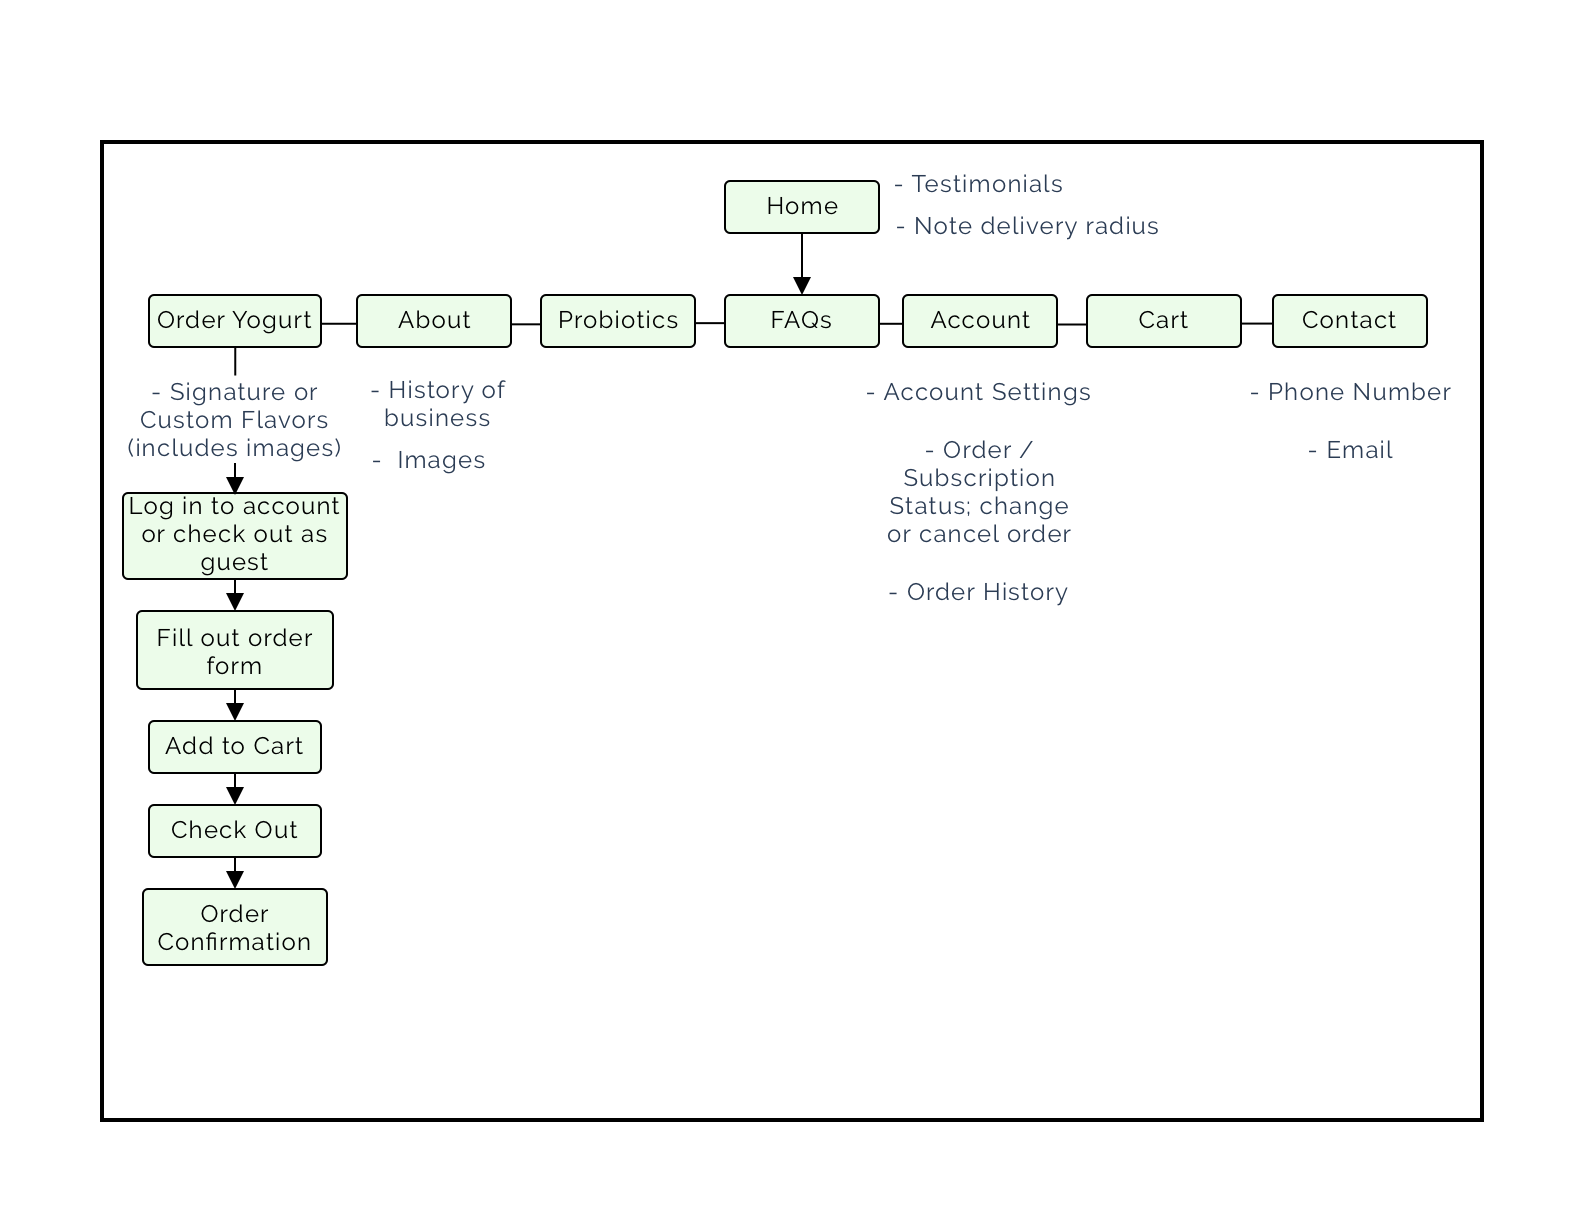
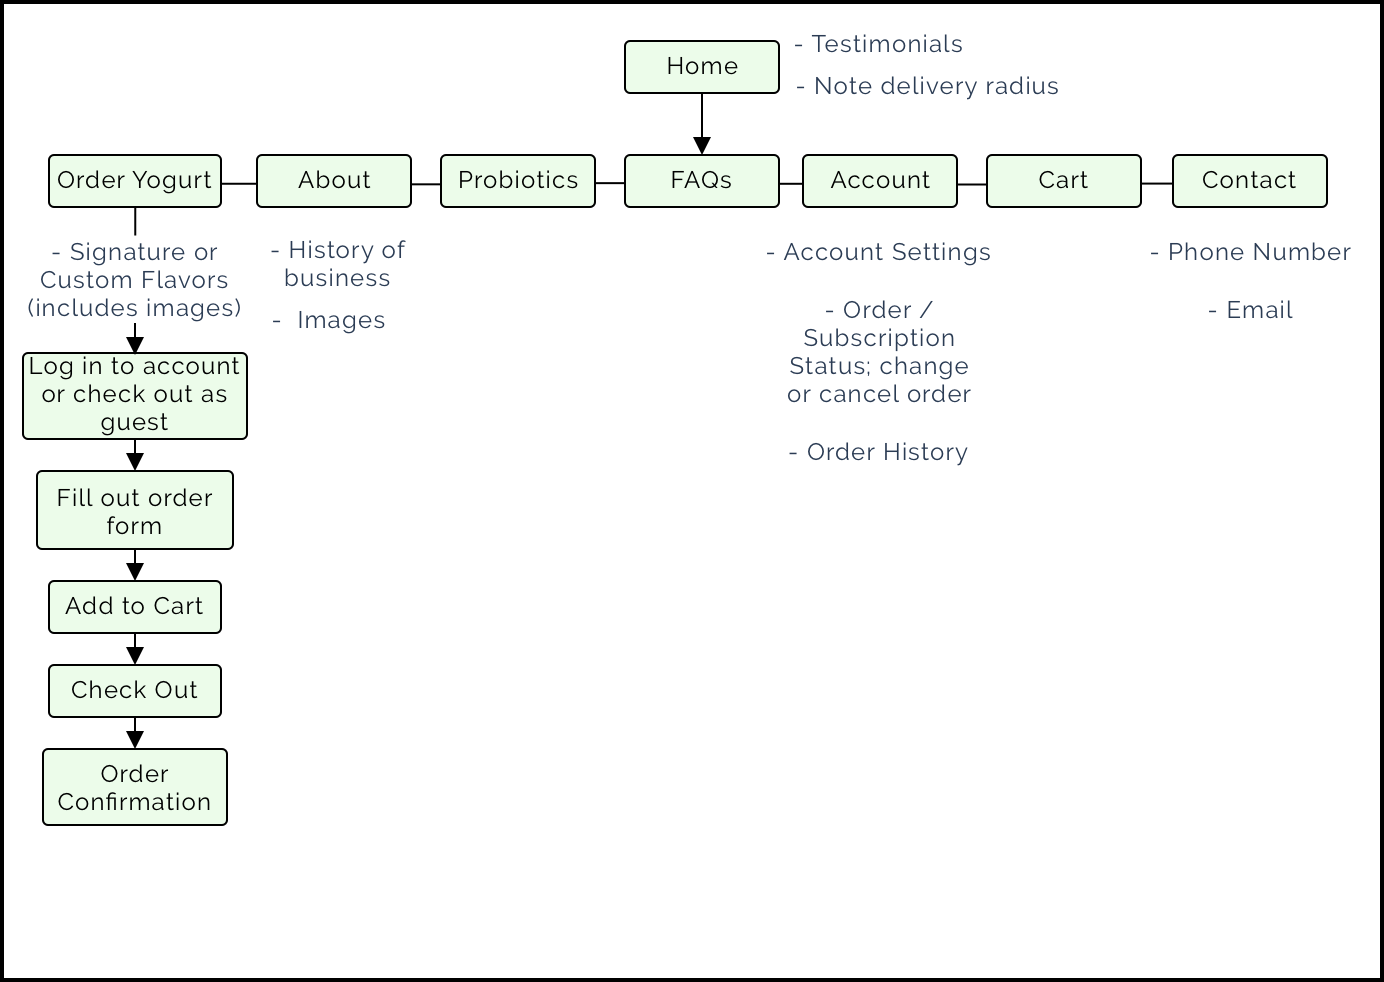
responsiveness progress

diff --git a/about.html b/about.html
@@ -126,41 +126,42 @@
             </h1>
 
             <div class="row skills-section">
-                <div class="col-md-12 portrait-format">
-                    <div class="skills-list">
-                        <h5 class="skill-item">
-                            &#x25BA; Sketch
-                        </h5>
-                        <h5 class="skill-item">
-                            &#x25BA; InVision
-                        </h5>
-                        <h5 class="skill-item">
-                            &#x25BA; Balsamiq
-                        </h5>
-                    </div>
-                    <div class="skills-list">
-                        <h5 class="skill-item">
-                            &#x25BA; HTML / CSS
-                        </h5>
-                        <h5 class="skill-item">
-                            &#x25BA; JavaScript
-                        </h5>
-                        <h5 class="skill-item">
-                            &#x25BA; Node.js
-                        </h5>
-                    </div>
-                    <div class="skills-list">
-                        <h5 class="skill-item">
-                            &#x25BA; WordPress
-                        </h5>
-                        <h5 class="skill-item">
-                            &#x25BA; Basecamp
-                        </h5>
-                        <h5 class="skill-item">
-                            &#x25BA; Microsoft Office
-                        </h5>
-                    </div>
-                </div>
+                <h5 class="skill-item">
+                    &#x25BA; Sketch
+                </h5>
+                <h5 class="skill-item">
+                    &#x25BA; InVision
+                </h5>
+                <h5 class="skill-item">
+                    &#x25BA; Balsamiq
+                </h5>
+                <h5 class="skill-item">
+                    &#x25BA; HTML
+                </h5>
+                <h5 class="skill-item">
+                    &#x25BA; CSS
+                </h5>
+                <h5 class="skill-item">
+                    &#x25BA; JavaScript
+                </h5>
+                <h5 class="skill-item">
+                    &#x25BA; Node.js
+                </h5>
+                <h5 class="skill-item">
+                    &#x25BA; Responsive Design
+                </h5>
+                <h5 class="skill-item">
+                    &#x25BA; WordPress
+                </h5>
+                <h5 class="skill-item">
+                    &#x25BA; Basecamp
+                </h5>
+                <h5 class="skill-item">
+                    &#x25BA; paint.NET
+                </h5>
+                <h5 class="skill-item">
+                    &#x25BA; Microsoft Office
+                </h5>
             </div>
 
             <!-- Education Content -->
@@ -178,11 +179,13 @@
                     </h4>
                 </div>
                 <div>
-                    <p><strong>Visual Elements of User Interface Course</strong> - how to design and articulate meaning
+                    <p><strong>Visual Elements of User Interface Course</strong> - how to design and articulate
+                        meaning
                         using
                         color, type, and imagery</p>
 
-                    <p><strong>UX Design Fundamentals Course</strong> - what role the designer plays in creating and
+                    <p><strong>UX Design Fundamentals Course</strong> - what role the designer plays in creating
+                        and
                         shaping a
                         user’s experience</p>
 
@@ -221,7 +224,8 @@
                     </h4>
                 </div>
                 <div>
-                    <p>Comprehensive Sketch 5 software course; modern approach to designing mobile and desktop apps,
+                    <p>Comprehensive Sketch 5 software course; modern approach to designing mobile and desktop
+                        apps,
                         websites, and everything UX/UI</p>
                 </div>
             </div>
@@ -255,10 +259,12 @@
 
             <div class="thumbnail-section">
                 <div class="row thumbnail-row">
-                    <div class="col-md-12 thumbnail-format">
+                    <div class="col-lg-8 offset-lg-2 col-xl-6 offset-xl-3 thumbnail-format">
                         <div class="thumb webdev-thumb" alt="Web Development Portfolio Website Thumbnail">
                         </div>
-                        <div class="check-out">My focus is now on UX and UI Design, but feel free to check out my Web
+                        <div class="thumbnail-description">My focus is now on UX and UI Design, but feel free to check
+                            out my
+                            Web
                             Development
                             portfolio
                             website too!</div>

diff --git a/microgurt.html b/microgurt.html
@@ -259,7 +259,7 @@
             </h3>
 
             <div class="row content-section">
-                <div class="col">
+                <div class="col-md-6">
                     <img src=./public/images/kristen.jpg class="persona-image" alt="Kristen and Daughter">
                     <h5 class="text-center">Kristen Roberts</h5><strong>Age:</strong> 36
 
@@ -284,7 +284,7 @@
                     online orders and have it delivered
                 </div>
 
-                <div class="col">
+                <div class="col-md-6">
                     <img src=./public/images/david.jpg class="persona-image" alt="David and Son">
                     <h5 class="text-center">David Valdes</h5><strong>Age:</strong> 42
 
@@ -308,7 +308,7 @@
             </div>
 
             <div class="row content-section">
-                <div class="col">
+                <div class="col-md-6">
                     <h3 class="content-section section-title">User Needs</h3>
                     <strong>Website needs to enable the user to:</strong>
 
@@ -327,7 +327,7 @@
                     - Contact someone with questions or issues about an order
                 </div>
 
-                <div class="col">
+                <div class="col-md-6">
                     <h3 class="content-section section-title">Client Needs</h3>
                     <strong>Website needs to enable the client to:</strong>
 
@@ -347,7 +347,7 @@
                 Outline of Scope
             </h2>
             <div class="row content-section">
-                <div class="col">
+                <div class="col-md-6">
                     <h3 class="content-section section-title">Content Requirements</h3>
                     Food Menu
                     - show a list of pre-planned yogurt products as well as
@@ -382,7 +382,7 @@
                     - contact?
                 </div>
 
-                <div class="col">
+                <div class="col-md-6">
                     <h3 class="content-section section-title">Functionality Requirements</h3>
                     User enters delivery address and finds out if she is close
                     enough to receive deliveries
@@ -412,7 +412,7 @@
                 Sitemap
             </h2>
 
-            <img class="microgurt-sitemap" src=./public/images/microgurt-sitemap.png alt="Microgurt Sitemap">
+            <img class="content-structure" src=./public/images/microgurt-sitemap.png alt="Microgurt Sitemap">
 
             <h2 class="content-section section-title">
                 Desktop Wireframes

diff --git a/public/css/style.css b/public/css/style.css
@@ -238,6 +238,7 @@ li a {
 .section-title {
     text-align: center;
     font-family: 'Raleway', sans-serif;
+    font-weight: bold;
 }
 
 .content-section {
@@ -250,10 +251,6 @@ li a {
     height: auto;
     margin: auto;
     display: block;
-}
-
-.microgurt-sitemap {
-    width: 100%;
 }
 
 .button-explanation {
@@ -295,23 +292,6 @@ li a {
     color: rgb(60, 47, 38);
     box-shadow: 0 4px 8px 0 rgba(0, 0, 0, 0.2), 0 6px 20px 0 rgba(0, 0, 0, 0.19);
     outline: none !important;
-}
-
-.skills-section {
-    margin-bottom: 54px;
-}
-
-.skills-title {
-    color: rgb(60, 47, 38);
-    font-size: 80px;
-    letter-spacing: 0.2em;
-    text-align: center;
-    padding: 12px 0 20px 0;
-    font-family: 'Bahiana', sans-serif;
-}
-
-.skill-item {
-    padding: 10px 40px;
 }
 
 .footer-section {
@@ -416,12 +396,24 @@ li a {
     /* border-radius: 10px; */
 }
 
-.check-out {
-    width: 36%;
+.skills-section {
+    margin-bottom: 54px;
+    display: flex;
+    align-items: center;
+    justify-content: center;
 }
 
-.webdev-thumb {
-    background-image: url(../images/webdev-thumbnail.png);
+.skills-title {
+    color: rgb(60, 47, 38);
+    font-size: 80px;
+    letter-spacing: 0.2em;
+    text-align: center;
+    padding: 12px 0 20px 0;
+    font-family: 'Bahiana', sans-serif;
+}
+
+.skill-item {
+    padding: 10px 20px;
 }
 
 .page-education-title {
@@ -439,6 +431,10 @@ li a {
 
 .education-section {
     padding: 20px;
+}
+
+.webdev-thumb {
+    background-image: url(../images/webdev-thumbnail.png);
 }
 
 
@@ -519,6 +515,12 @@ li a {
     }
 }
 
+@media only screen and (max-width: 770px) {
+    .thumb {
+        width: 100%;
+    }
+}
+
 @media only screen and (max-width: 750px) {
     #home-nav,
     #portfolio-nav,
@@ -556,6 +558,15 @@ li a {
 
     .jelly {
         max-width: 50px;
+    }
+}
+
+@media only screen and (max-width: 580px) {
+    .skills-section {
+        margin-bottom: 54px;
+        display: flex;
+        align-items: center;
+        justify-content: flex-start;
     }
 }
 
@@ -601,6 +612,11 @@ li a {
     #portfolio-nav-portfolio,
     #about-nav-about {
         padding: 1rem 0rem;
+    }
+
+    .container {
+        padding-left: 0;
+        padding-right: 0;
     }
 }
 
